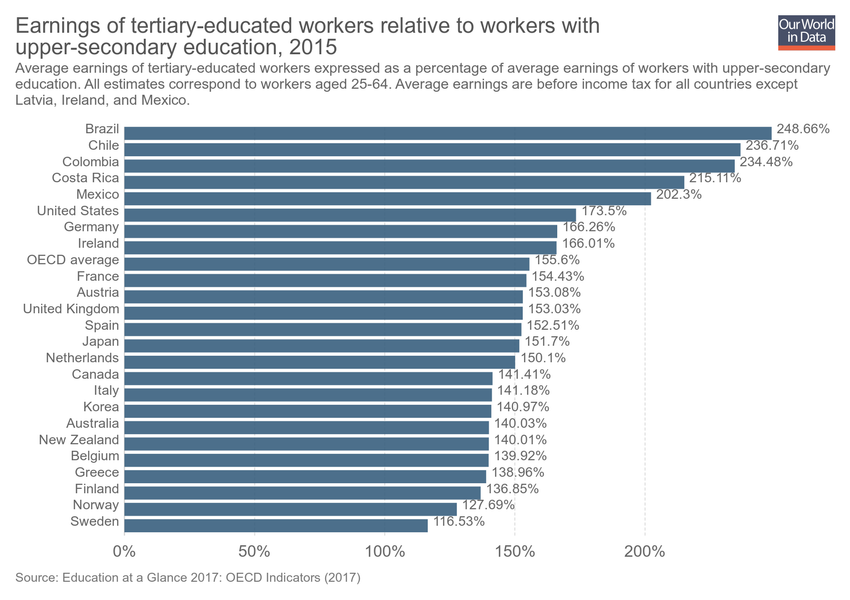
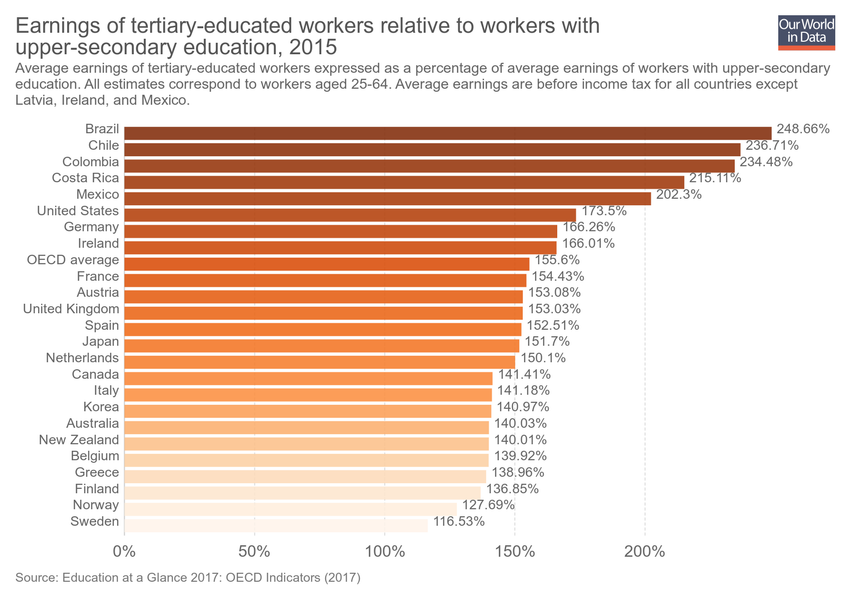
Updating chart earnings-of-tertiary-educated-workers-relative-to-workers-with-upper-secondary-education

Changed region(s): [[0.1224, 0.21, 0.9176, 0.9]]

diff --git a/grapher/earnings-of-tertiary-educated-workers-relative-to-workers-with-upper-secondary-education.html b/grapher/earnings-of-tertiary-educated-workers-relative-to-workers-with-upper-secondary-education.html
@@ -1,4 +1,4 @@
-<!doctype html><html><head><meta name="viewport" content="width=device-width, initial-scale=1" /><title>Earnings of tertiary-educated workers relative to workers with upper-secondary education - Our World in Data</title><meta name="description" content="Average earnings of tertiary-educated workers expressed as a percentage of average earnings of workers with upper-secondary education. All estimates correspond to workers aged 25-64. Average earnings are before income tax for all countries except Latvia, Ireland, and Mexico." /><link rel="canonical" href="https://ourworldindata.org/grapher/earnings-of-tertiary-educated-workers-relative-to-workers-with-upper-secondary-education" /><meta property="fb:app_id" content="1149943818390250" /><meta property="og:url" content="https://ourworldindata.org/grapher/earnings-of-tertiary-educated-workers-relative-to-workers-with-upper-secondary-education" /><meta property="og:title" content="Earnings of tertiary-educated workers relative to workers with upper-secondary education" /><meta property="og:description" content="Average earnings of tertiary-educated workers expressed as a percentage of average earnings of workers with upper-secondary education. All estimates correspond to workers aged 25-64. Average earnings are before income tax for all countries except Latvia, Ireland, and Mexico." /><meta property="og:image" content="https://ourworldindata.org/grapher/exports/earnings-of-tertiary-educated-workers-relative-to-workers-with-upper-secondary-education.png?v=13" /><meta property="og:image:width" content="850" /><meta property="og:image:height" content="600" /><meta property="og:site_name" content="Our World in Data" /><meta name="twitter:card" content="summary_large_image" /><meta name="twitter:site" content="@OurWorldInData" /><meta name="twitter:creator" content="@OurWorldInData" /><meta name="twitter:title" content="Earnings of tertiary-educated workers relative to workers with upper-secondary education" /><meta name="twitter:description" content="Average earnings of tertiary-educated workers expressed as a percentage of average earnings of workers with upper-secondary education. All estimates correspond to workers aged 25-64. Average earnings are before income tax for all countries except Latvia, Ireland, and Mexico." /><meta name="twitter:image" content="https://ourworldindata.org/grapher/exports/earnings-of-tertiary-educated-workers-relative-to-workers-with-upper-secondary-education.png?v=13" /><style>
+<!doctype html><html><head><meta name="viewport" content="width=device-width, initial-scale=1" /><title>Earnings of tertiary-educated workers relative to workers with upper-secondary education - Our World in Data</title><meta name="description" content="Average earnings of tertiary-educated workers expressed as a percentage of average earnings of workers with upper-secondary education. All estimates correspond to workers aged 25-64. Average earnings are before income tax for all countries except Latvia, Ireland, and Mexico." /><link rel="canonical" href="https://ourworldindata.org/grapher/earnings-of-tertiary-educated-workers-relative-to-workers-with-upper-secondary-education" /><meta property="fb:app_id" content="1149943818390250" /><meta property="og:url" content="https://ourworldindata.org/grapher/earnings-of-tertiary-educated-workers-relative-to-workers-with-upper-secondary-education" /><meta property="og:title" content="Earnings of tertiary-educated workers relative to workers with upper-secondary education" /><meta property="og:description" content="Average earnings of tertiary-educated workers expressed as a percentage of average earnings of workers with upper-secondary education. All estimates correspond to workers aged 25-64. Average earnings are before income tax for all countries except Latvia, Ireland, and Mexico." /><meta property="og:image" content="https://ourworldindata.org/grapher/exports/earnings-of-tertiary-educated-workers-relative-to-workers-with-upper-secondary-education.png?v=15" /><meta property="og:image:width" content="850" /><meta property="og:image:height" content="600" /><meta property="og:site_name" content="Our World in Data" /><meta name="twitter:card" content="summary_large_image" /><meta name="twitter:site" content="@OurWorldInData" /><meta name="twitter:creator" content="@OurWorldInData" /><meta name="twitter:title" content="Earnings of tertiary-educated workers relative to workers with upper-secondary education" /><meta name="twitter:description" content="Average earnings of tertiary-educated workers expressed as a percentage of average earnings of workers with upper-secondary education. All estimates correspond to workers aged 25-64. Average earnings are before income tax for all countries except Latvia, Ireland, and Mexico." /><meta name="twitter:image" content="https://ourworldindata.org/grapher/exports/earnings-of-tertiary-educated-workers-relative-to-workers-with-upper-secondary-education.png?v=15" /><style>
         html, body {
             height: 100%;
             margin: 0;
@@ -20,8 +20,8 @@
         }
     </style><noscript><style>
                     figure { display: none !important; }
-                </style></noscript><link rel="stylesheet" href="https://ourworldindata.org/grapher/assets/commons.bundle.b9f051796dbbbb7e5139.css" /><link rel="preload" href="/grapher/data/variables/97781.json?v=13" as="fetch" crossorigin /></head><body class="singleChart"><figure data-grapher-src="/grapher/earnings-of-tertiary-educated-workers-relative-to-workers-with-upper-secondary-education"></figure><noscript id="fallback"><img src="/grapher/exports/earnings-of-tertiary-educated-workers-relative-to-workers-with-upper-secondary-education.svg" /><p>Interactive visualization requires JavaScript</p></noscript><script src="https://cdn.polyfill.io/v2/polyfill.min.js?features=es6,fetch"></script><script src="https://ourworldindata.org/grapher/assets/commons.bundle.b9f051796dbbbb7e5139.js"></script><script src="https://ourworldindata.org/grapher/assets/charts.bundle.b9f051796dbbbb7e5139.js"></script><script>
-        var jsonConfig = {"id":2952,"map":{"projection":"World","colorSchemeLabels":[],"colorSchemeValues":[],"customNumericColors":[],"customCategoryColors":{},"customCategoryLabels":{},"customHiddenCategories":{}},"tab":"chart","slug":"earnings-of-tertiary-educated-workers-relative-to-workers-with-upper-secondary-education","type":"DiscreteBar","title":"Earnings of tertiary-educated workers relative to workers with upper-secondary education","xAxis":{"scaleType":"linear"},"yAxis":{"min":0,"scaleType":"linear"},"version":13,"subtitle":"Average earnings of tertiary-educated workers expressed as a percentage of average earnings of workers with upper-secondary education. All estimates correspond to workers aged 25-64. Average earnings are before income tax for all countries except Latvia, Ireland, and Mexico.","hasMapTab":false,"stackMode":"absolute","dimensions":[{"display":{},"property":"y","variableId":97781}],"hasChartTab":true,"isPublished":true,"selectedData":[{"index":0,"entityId":10},{"index":0,"entityId":8},{"index":0,"entityId":166},{"index":0,"entityId":3},{"index":0,"entityId":149},{"index":0,"entityId":14},{"index":0,"entityId":2},{"index":0,"entityId":23},{"index":0,"entityId":24},{"index":0,"entityId":172},{"index":0,"entityId":5},{"index":0,"entityId":106},{"index":0,"entityId":102},{"index":0,"entityId":3783},{"index":0,"entityId":31416},{"index":0,"entityId":44},{"index":0,"entityId":6},{"index":0,"entityId":4},{"index":0,"entityId":155},{"index":0,"entityId":1},{"index":0,"entityId":13},{"index":0,"entityId":37},{"index":0,"entityId":170},{"index":0,"entityId":113},{"index":0,"entityId":9}],"addCountryMode":"add-country"};
+                </style></noscript><link rel="stylesheet" href="https://ourworldindata.org/grapher/assets/commons.bundle.b9f051796dbbbb7e5139.css" /><link rel="preload" href="/grapher/data/variables/97781.json?v=15" as="fetch" crossorigin /></head><body class="singleChart"><figure data-grapher-src="/grapher/earnings-of-tertiary-educated-workers-relative-to-workers-with-upper-secondary-education"></figure><noscript id="fallback"><img src="/grapher/exports/earnings-of-tertiary-educated-workers-relative-to-workers-with-upper-secondary-education.svg" /><p>Interactive visualization requires JavaScript</p></noscript><script src="https://cdn.polyfill.io/v2/polyfill.min.js?features=es6,fetch"></script><script src="https://ourworldindata.org/grapher/assets/commons.bundle.b9f051796dbbbb7e5139.js"></script><script src="https://ourworldindata.org/grapher/assets/charts.bundle.b9f051796dbbbb7e5139.js"></script><script>
+        var jsonConfig = {"id":2952,"map":{"projection":"World","colorSchemeLabels":[],"colorSchemeValues":[],"customNumericColors":[],"customCategoryColors":{},"customCategoryLabels":{},"customHiddenCategories":{}},"tab":"chart","slug":"earnings-of-tertiary-educated-workers-relative-to-workers-with-upper-secondary-education","type":"DiscreteBar","title":"Earnings of tertiary-educated workers relative to workers with upper-secondary education","xAxis":{"scaleType":"linear"},"yAxis":{"min":0,"scaleType":"linear"},"version":15,"subtitle":"Average earnings of tertiary-educated workers expressed as a percentage of average earnings of workers with upper-secondary education. All estimates correspond to workers aged 25-64. Average earnings are before income tax for all countries except Latvia, Ireland, and Mexico.","hasMapTab":false,"stackMode":"absolute","dimensions":[{"display":{},"property":"y","variableId":97781}],"hasChartTab":true,"isPublished":true,"selectedData":[{"index":0,"entityId":10},{"index":0,"entityId":8},{"index":0,"entityId":166},{"index":0,"entityId":3},{"index":0,"entityId":149},{"index":0,"entityId":14},{"index":0,"entityId":2},{"index":0,"entityId":23},{"index":0,"entityId":24},{"index":0,"entityId":172},{"index":0,"entityId":5},{"index":0,"entityId":106},{"index":0,"entityId":102},{"index":0,"entityId":3783},{"index":0,"entityId":31416},{"index":0,"entityId":44},{"index":0,"entityId":6},{"index":0,"entityId":4},{"index":0,"entityId":155},{"index":0,"entityId":1},{"index":0,"entityId":13},{"index":0,"entityId":37},{"index":0,"entityId":170},{"index":0,"entityId":113},{"index":0,"entityId":9}],"addCountryMode":"add-country","baseColorScheme":"Oranges"};
         var figure = document.getElementsByTagName("figure")[0];
         try {
             window.App = {};
